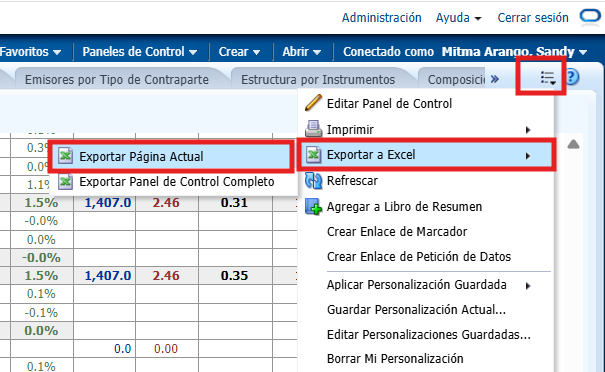
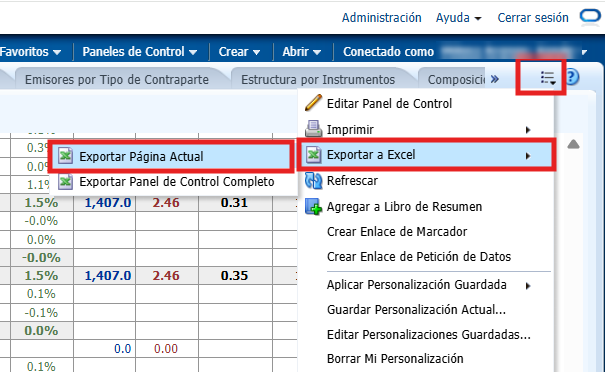
Redact user name in screenshots; support two narration voices
The OAS top bar in scenes 9 and 10 showed the logged-in user's name. Those
regions are now pixelated irreversibly (5px mosaic plus blur) rather than
softly blurred, which can be reversed. "Conectado como" is kept so the bar
still reads as a real interface.

Note the unredacted screenshots remain in commit 944987f's history.

tools/sincronizar.py now takes --voz <name> and reads assets/audio/<name>/,
so one project can produce a version per narration voice; --listar reports
which voices are present and whether any of the twelve files are missing.
tools/partir-audio.py splits a single continuous recording into the twelve
scene files by silence detection, refusing to guess when it cannot find
exactly eleven internal boundaries.

Claude-Session: https://claude.ai/code/session_014pU2nx3u5Ver2eAzaUmnrd

Changed region(s): [[0.714, 0.1183, 0.9818, 0.1774]]

diff --git a/videos/datamar-bi-oas-goi/tools/sincronizar.py b/videos/datamar-bi-oas-goi/tools/sincronizar.py
@@ -1,15 +1,21 @@
 #!/usr/bin/env python3
-"""Ensambla el timeline maestro y lo sincroniza con la narración real.
+"""Ensambla el timeline maestro y lo sincroniza con una narración concreta.
 
 Uso:
-    python3 tools/sincronizar.py
+    python3 tools/sincronizar.py                # sin voz: tiempos estimados
+    python3 tools/sincronizar.py --voz camila   # usa assets/audio/camila/
+    python3 tools/sincronizar.py --listar       # qué voces hay disponibles
 
-Si existen los archivos `assets/audio/esc00.wav` … `esc11.wav`, mide su duración
-real y ajusta cada escena a la voz. Si no existen, usa la estimación por conteo
-de palabras (148 palabras/min) para poder trabajar antes de tener el audio.
+Cada voz vive en su propia carpeta con doce archivos, `esc00` … `esc11`, en wav,
+mp3, m4a, aac u ogg. El script mide la duración real de cada uno y ajusta a esa
+voz las doce escenas y los subtítulos; sin audio cae en la estimación por conteo
+de palabras (148 palabras/min), útil para trabajar antes de tener la grabación.
 
-En ambos casos reescribe `index.html` y `subtitulos.json`.
+Reescribe `index.html` y `subtitulos.json`. Como cada voz tiene su propio ritmo,
+las dos versiones tienen duraciones distintas: renderiza una, guarda el MP4 con
+su nombre, y vuelve a correr el script con la otra voz.
 """
+import argparse
 import contextlib
 import json
 import os
@@ -18,7 +24,8 @@ import sys
 import wave
 
 ROOT = os.path.dirname(os.path.dirname(os.path.abspath(__file__)))
-AUDIO_DIR = os.path.join(ROOT, "assets", "audio")
+AUDIO_BASE = os.path.join(ROOT, "assets", "audio")
+EXTS = (".wav", ".mp3", ".m4a", ".aac", ".ogg")
 
 LEAD = 0.6        # silencio antes de que entre la voz en cada escena
 TAIL = 1.2        # aire después de la última palabra, para que la escena respire
@@ -102,9 +109,26 @@ SCENES = [
 ]
 
 
-def find_audio(slug):
-    for ext in (".wav", ".mp3", ".m4a", ".aac", ".ogg"):
-        p = os.path.join(AUDIO_DIR, slug + ext)
+def voces_disponibles():
+    """Carpetas bajo assets/audio/ que contienen al menos un esc**.* reconocible."""
+    if not os.path.isdir(AUDIO_BASE):
+        return []
+    out = []
+    for nombre in sorted(os.listdir(AUDIO_BASE)):
+        d = os.path.join(AUDIO_BASE, nombre)
+        if os.path.isdir(d) and any(
+            f.startswith("esc") and f.endswith(EXTS) for f in os.listdir(d)
+        ):
+            n = sum(1 for f in os.listdir(d) if f.startswith("esc") and f.endswith(EXTS))
+            out.append((nombre, n))
+    return out
+
+
+def find_audio(slug, voz):
+    if not voz:
+        return None
+    for ext in EXTS:
+        p = os.path.join(AUDIO_BASE, voz, slug + ext)
         if os.path.isfile(p):
             return p
     return None
@@ -132,10 +156,10 @@ def audio_duration(path):
     raise RuntimeError(f"No se pudo medir la duración de {path}")
 
 
-def build():
+def build(voz=None):
     tracks, have_audio = [], False
     for slug, cid, src, lines in SCENES:
-        path = find_audio(slug)
+        path = find_audio(slug, voz)
         if path:
             have_audio = True
             speech = audio_duration(path)
@@ -289,13 +313,44 @@ def build():
         print(f"{tr['cid']:<24}{starts[i]:>9.1f}{tr['speech']:>8.1f}{tr['dur']:>9.1f}   {tr['source']}")
     m, s = divmod(total, 60)
     print(f"\nTotal: {total:.1f} s = {int(m)}:{int(s):02d}   ·   {len(index)} subtítulos")
+    faltan = [t["slug"] for t in tracks if not t["audio"]]
     if have_audio:
-        print("Narración real detectada: los tiempos siguen a la voz.")
+        print(f"Voz «{voz}»: los tiempos siguen a la grabación.")
+        if faltan:
+            print(f"  ⚠ sin audio y por tanto estimadas: {', '.join(faltan)}")
     else:
-        print(f"Sin audio en {os.path.relpath(AUDIO_DIR, ROOT)}/ — tiempos estimados.")
-        print("Coloca esc00.wav … esc11.wav y vuelve a ejecutar para sincronizar.")
+        destino = os.path.join("assets", "audio", voz or "<voz>")
+        print(f"Sin audio en {destino}/ — tiempos estimados.")
+        print("Coloca esc00.wav … esc11.wav en esa carpeta y vuelve a ejecutar.")
     return 0
 
 
+def main():
+    ap = argparse.ArgumentParser(description="Sincroniza el video con una narración.")
+    ap.add_argument("--voz", help="carpeta bajo assets/audio/ con los doce archivos")
+    ap.add_argument("--listar", action="store_true", help="lista las voces disponibles")
+    a = ap.parse_args()
+
+    disponibles = voces_disponibles()
+    if a.listar:
+        if not disponibles:
+            print("No hay ninguna voz en assets/audio/.")
+            print("Crea una carpeta por versión, p. ej. assets/audio/camila/, con esc00…esc11.")
+        else:
+            print("Voces disponibles:")
+            for nombre, n in disponibles:
+                marca = "" if n == 12 else f"  ⚠ faltan {12 - n}"
+                print(f"  {nombre:<20} {n}/12 archivos{marca}")
+        return 0
+
+    if a.voz and a.voz not in [n for n, _ in disponibles]:
+        print(f"No encuentro la voz «{a.voz}» en assets/audio/.")
+        if disponibles:
+            print("Disponibles: " + ", ".join(n for n, _ in disponibles))
+        return 1
+
+    return build(a.voz)
+
+
 if __name__ == "__main__":
-    sys.exit(build())
+    sys.exit(main())

diff --git a/videos/datamar-bi-oas-goi/tools/partir-audio.py b/videos/datamar-bi-oas-goi/tools/partir-audio.py
@@ -1,0 +1,110 @@
+#!/usr/bin/env python3
+"""Parte una narración continua en los doce archivos por escena.
+
+Uso:
+    python3 tools/partir-audio.py grabacion.wav --voz camila
+    python3 tools/partir-audio.py grabacion.wav --voz locutor --silencio 0.7 --umbral -34
+
+Pensado para cuando la voz llega como un único archivo en vez de doce. Detecta
+los silencios entre frases con ffmpeg y corta ahí, escribiendo
+`assets/audio/<voz>/esc00.wav` … `esc11.wav`.
+
+Necesita encontrar exactamente once silencios largos, uno por frontera de
+escena. Si encuentra otra cantidad no adivina: informa lo que halló y sugiere
+cómo ajustar los parámetros, porque un corte mal puesto desincroniza todo el
+video a partir de ahí.
+"""
+import argparse
+import os
+import re
+import subprocess
+import sys
+
+ROOT = os.path.dirname(os.path.dirname(os.path.abspath(__file__)))
+N_ESCENAS = 12
+
+
+def ffmpeg(*args):
+    return subprocess.run(["ffmpeg", *args], capture_output=True, text=True)
+
+
+def duracion(path):
+    out = subprocess.run(
+        ["ffprobe", "-v", "error", "-show_entries", "format=duration",
+         "-of", "default=noprint_wrappers=1:nokey=1", path],
+        capture_output=True, text=True,
+    ).stdout.strip()
+    return float(out)
+
+
+def silencios(path, min_dur, umbral_db):
+    """Devuelve [(inicio, fin)] de cada tramo de silencio detectado."""
+    res = ffmpeg("-i", path, "-af", f"silencedetect=n={umbral_db}dB:d={min_dur}",
+                 "-f", "null", "-")
+    inicios = [float(m) for m in re.findall(r"silence_start: (-?[\d.]+)", res.stderr)]
+    finales = [float(m) for m in re.findall(r"silence_end: ([\d.]+)", res.stderr)]
+    return list(zip(inicios, finales))
+
+
+def main():
+    ap = argparse.ArgumentParser(description="Parte una narración continua en doce escenas.")
+    ap.add_argument("archivo", help="la grabación completa")
+    ap.add_argument("--voz", required=True, help="nombre de la carpeta destino bajo assets/audio/")
+    ap.add_argument("--silencio", type=float, default=0.6,
+                    help="duración mínima de silencio que cuenta como corte (s)")
+    ap.add_argument("--umbral", type=float, default=-32,
+                    help="por debajo de estos dB se considera silencio")
+    a = ap.parse_args()
+
+    if not os.path.isfile(a.archivo):
+        print(f"No existe {a.archivo}")
+        return 1
+
+    total = duracion(a.archivo)
+    tramos = silencios(a.archivo, a.silencio, a.umbral)
+    # un silencio al inicio o al final no separa dos escenas
+    internos = [(i, f) for i, f in tramos if i > 0.25 and f < total - 0.25]
+
+    print(f"Archivo: {os.path.basename(a.archivo)}  ·  {total:.1f} s")
+    print(f"Silencios internos de ≥{a.silencio}s por debajo de {a.umbral}dB: {len(internos)}")
+
+    if len(internos) != N_ESCENAS - 1:
+        print(f"\nEsperaba {N_ESCENAS - 1} cortes y encontré {len(internos)}. No voy a adivinar:")
+        print("un corte mal puesto desincroniza el video de ahí en adelante.\n")
+        if len(internos) > N_ESCENAS - 1:
+            print("Hay más cortes de la cuenta — está partiendo dentro de las frases.")
+            print(f"  Prueba a subir el mínimo:  --silencio {a.silencio + 0.3:.1f}")
+        else:
+            print("Hay menos cortes de la cuenta — las pausas no llegan al umbral.")
+            print(f"  Prueba a bajarlo:  --silencio {max(0.2, a.silencio - 0.2):.1f}")
+            print(f"  o a subir el umbral:  --umbral {a.umbral + 6:.0f}")
+        if internos:
+            print("\n  Cortes detectados (s):")
+            for i, (ini, fin) in enumerate(internos, 1):
+                print(f"    {i:>2}.  {ini:>7.2f} → {fin:>7.2f}   (pausa de {fin - ini:.2f}s)")
+        print("\nSi no logras un corte limpio, entrégame los doce archivos por separado.")
+        return 2
+
+    # corta por el punto medio de cada silencio, para no comer aire de ninguna escena
+    limites = [0.0] + [(i + f) / 2 for i, f in internos] + [total]
+
+    destino = os.path.join(ROOT, "assets", "audio", a.voz)
+    os.makedirs(destino, exist_ok=True)
+
+    print(f"\nEscribiendo en assets/audio/{a.voz}/")
+    for n in range(N_ESCENAS):
+        ini, fin = limites[n], limites[n + 1]
+        salida = os.path.join(destino, f"esc{n:02d}.wav")
+        res = ffmpeg("-y", "-i", a.archivo, "-ss", f"{ini:.3f}", "-to", f"{fin:.3f}",
+                     "-ac", "1", "-ar", "48000", "-c:a", "pcm_s16le", salida)
+        if res.returncode != 0:
+            print(f"  ✗ esc{n:02d}: {res.stderr.strip().splitlines()[-1]}")
+            return 1
+        print(f"  ✓ esc{n:02d}.wav   {ini:>7.2f} → {fin:>7.2f}   ({fin - ini:.2f}s)")
+
+    print(f"\nListo. Ahora:  python3 tools/sincronizar.py --voz {a.voz}")
+    return 0
+
+
+if __name__ == "__main__":
+    sys.exit(main())

diff --git a/videos/datamar-bi-oas-goi/BRIEF.md b/videos/datamar-bi-oas-goi/BRIEF.md
@@ -46,6 +46,11 @@ del contenido; este proyecto no inventa pasos ni afirma nada que el guion no dig
   El texto listo para sintetizar está en `NARRACION.md` y en `narracion-ssml/`.
   El video se construye primero con las duraciones estimadas del guion y se
   re-sincroniza contra el audio real cuando llegue.
+- **Dos versiones de audio.** El proyecto produce una versión por voz: la de
+  Camila y una segunda grabación que aportará la usuaria. Cada voz vive en su
+  carpeta (`assets/audio/<voz>/esc00…esc11`) y se arma con
+  `python3 tools/sincronizar.py --voz <voz>`. Como cada voz tiene su propio
+  ritmo, las duraciones finales difieren entre versiones.
 - **Subtítulos** en la franja inferior, sincronizados con la narración.
 - **Cursor animado** en la escena 4, donde el guion pide mostrar el clic sobre el reporte.
 - **Resaltado secuencial** de los filtros en la escena 5 y de los formatos de
@@ -67,3 +72,9 @@ del contenido; este proyecto no inventa pasos ni afirma nada que el guion no dig
   2:30 y la narración pura mide ~1:52. Se trabaja con 2:28 y se ajusta al audio real.
 - La URL `oasgoi.bcrp.gob:9502/analytics/` es un host interno; aparece tal cual
   porque es lo que el usuario debe escribir.
+- **Nombre de usuario difuminado.** Las capturas de las escenas 9 y 10 mostraban
+  «Conectado como Mitma Arango, Sandy» en la barra de OAS. A pedido de la usuaria
+  esa región se pixeló de forma irreversible (mosaico de 5 px más desenfoque) en
+  `escena09_exportar_excel_pagina.png` y `escena10_regresar_overview.png`. El
+  texto «Conectado como» se conserva para que la barra siga leyéndose natural.
+  Aviso: las versiones sin difuminar quedaron en el commit 944987f del historial.
